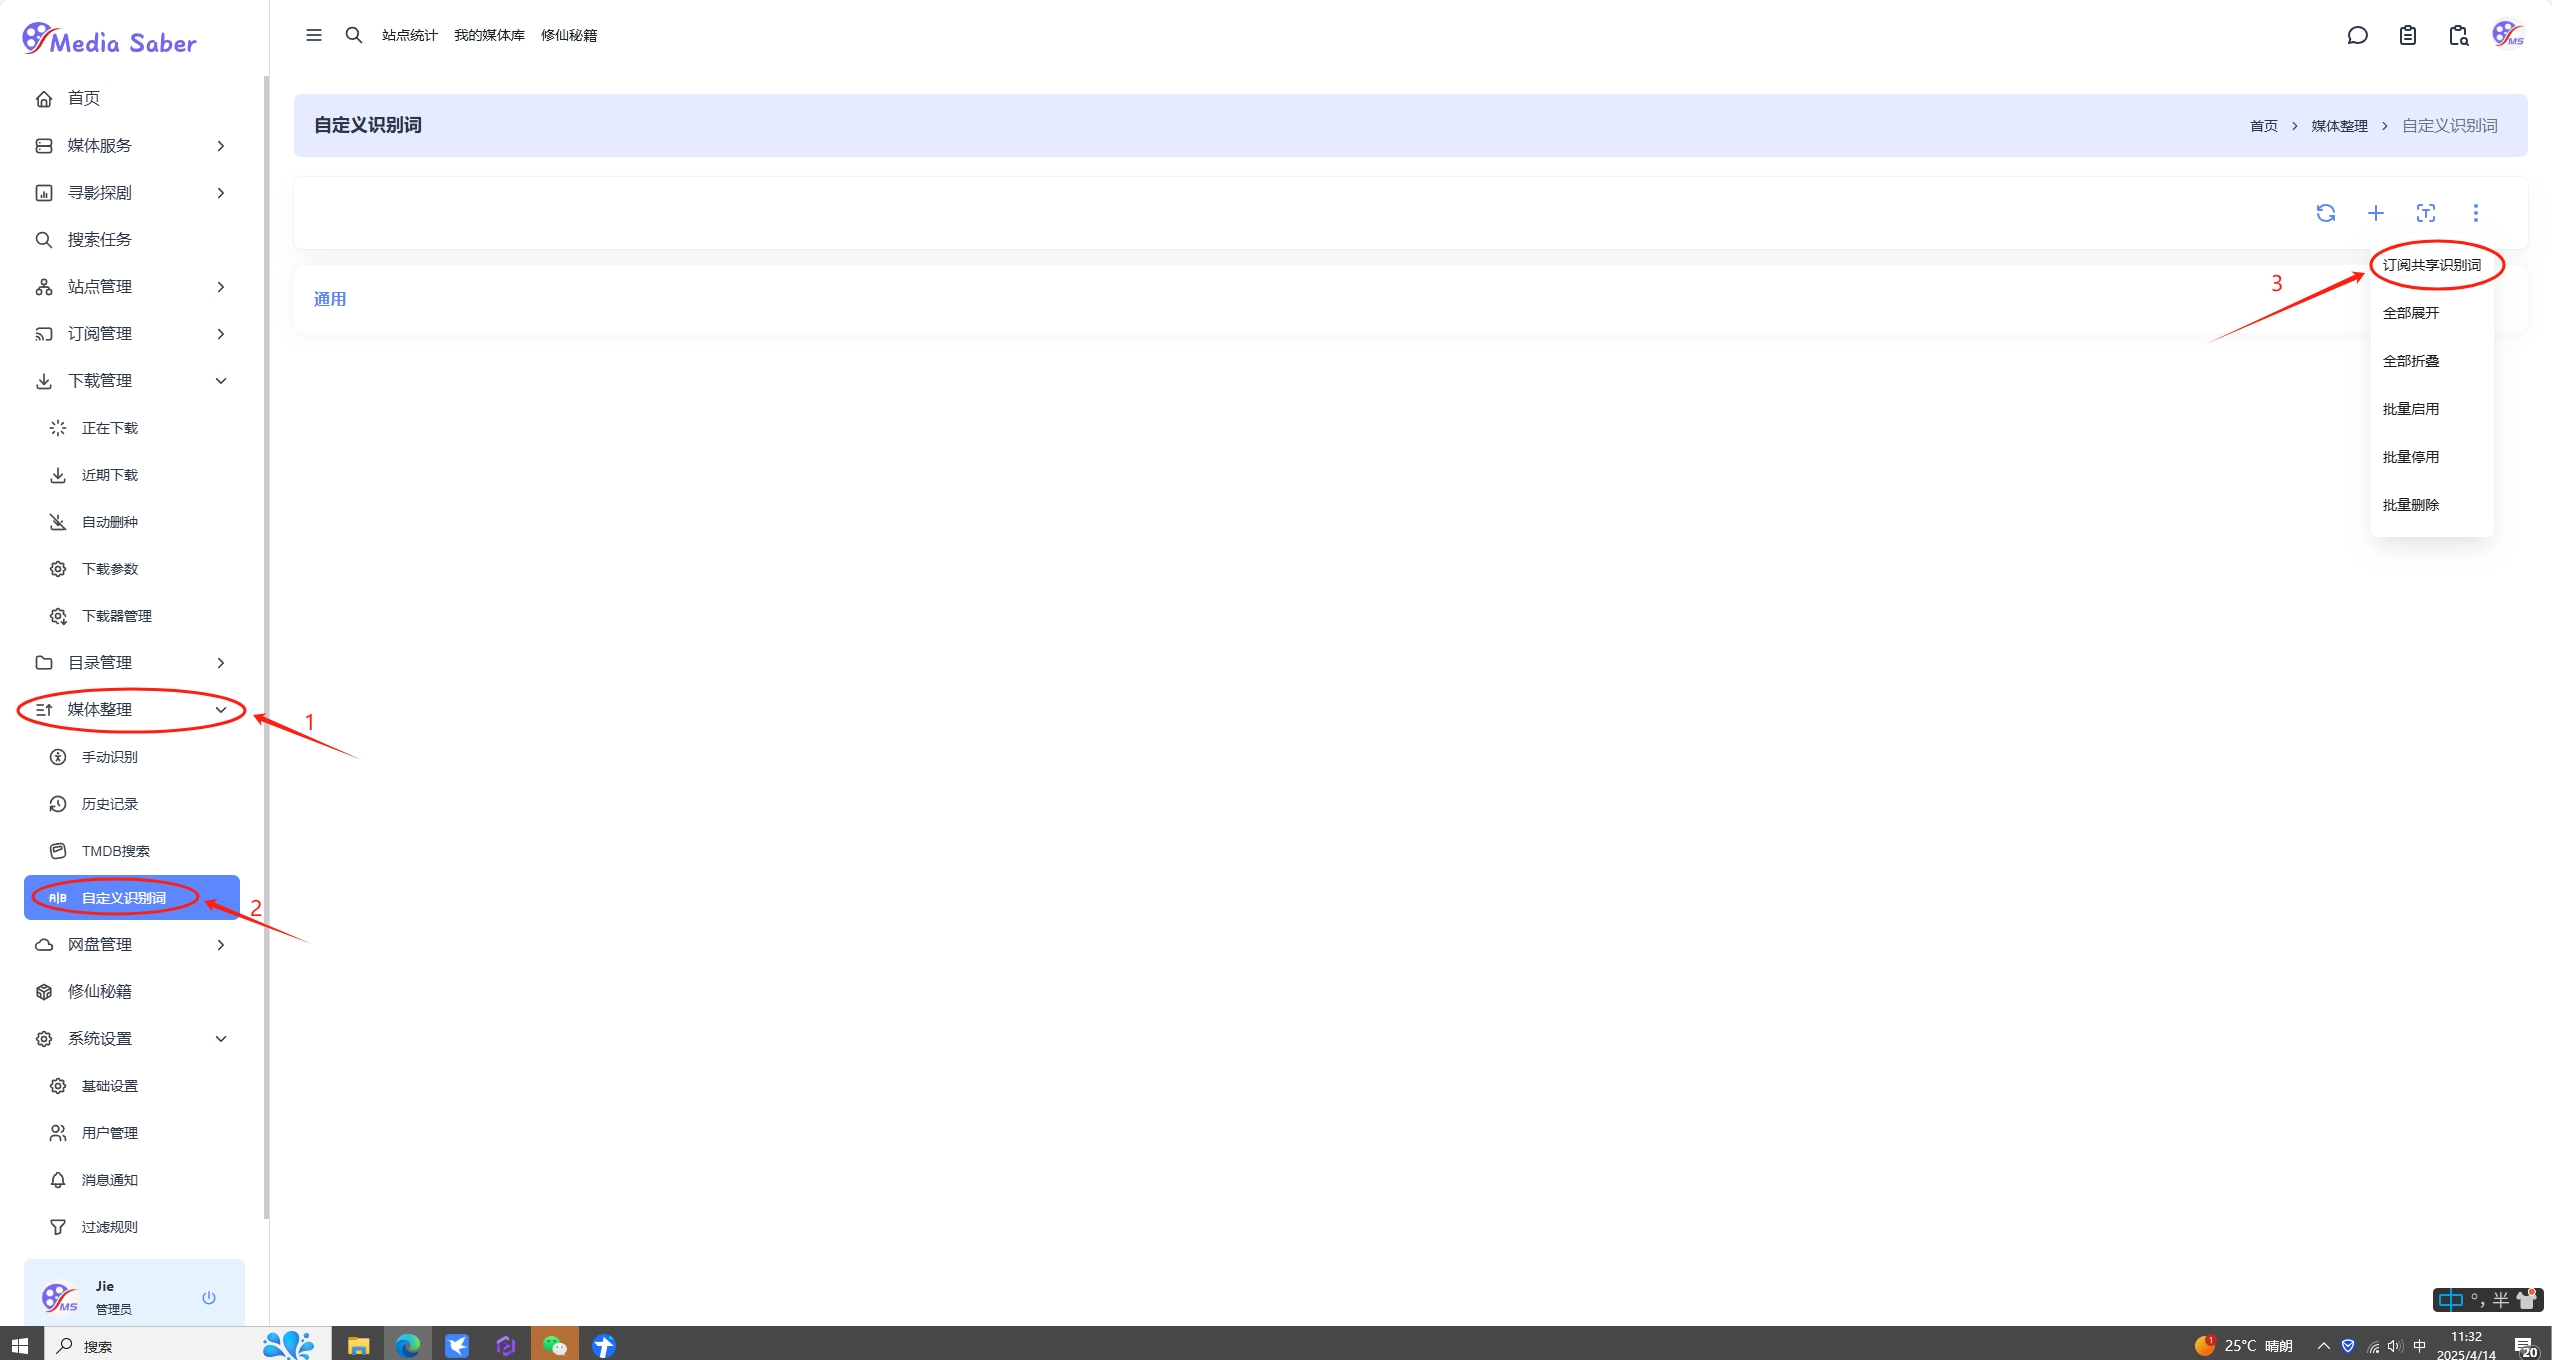
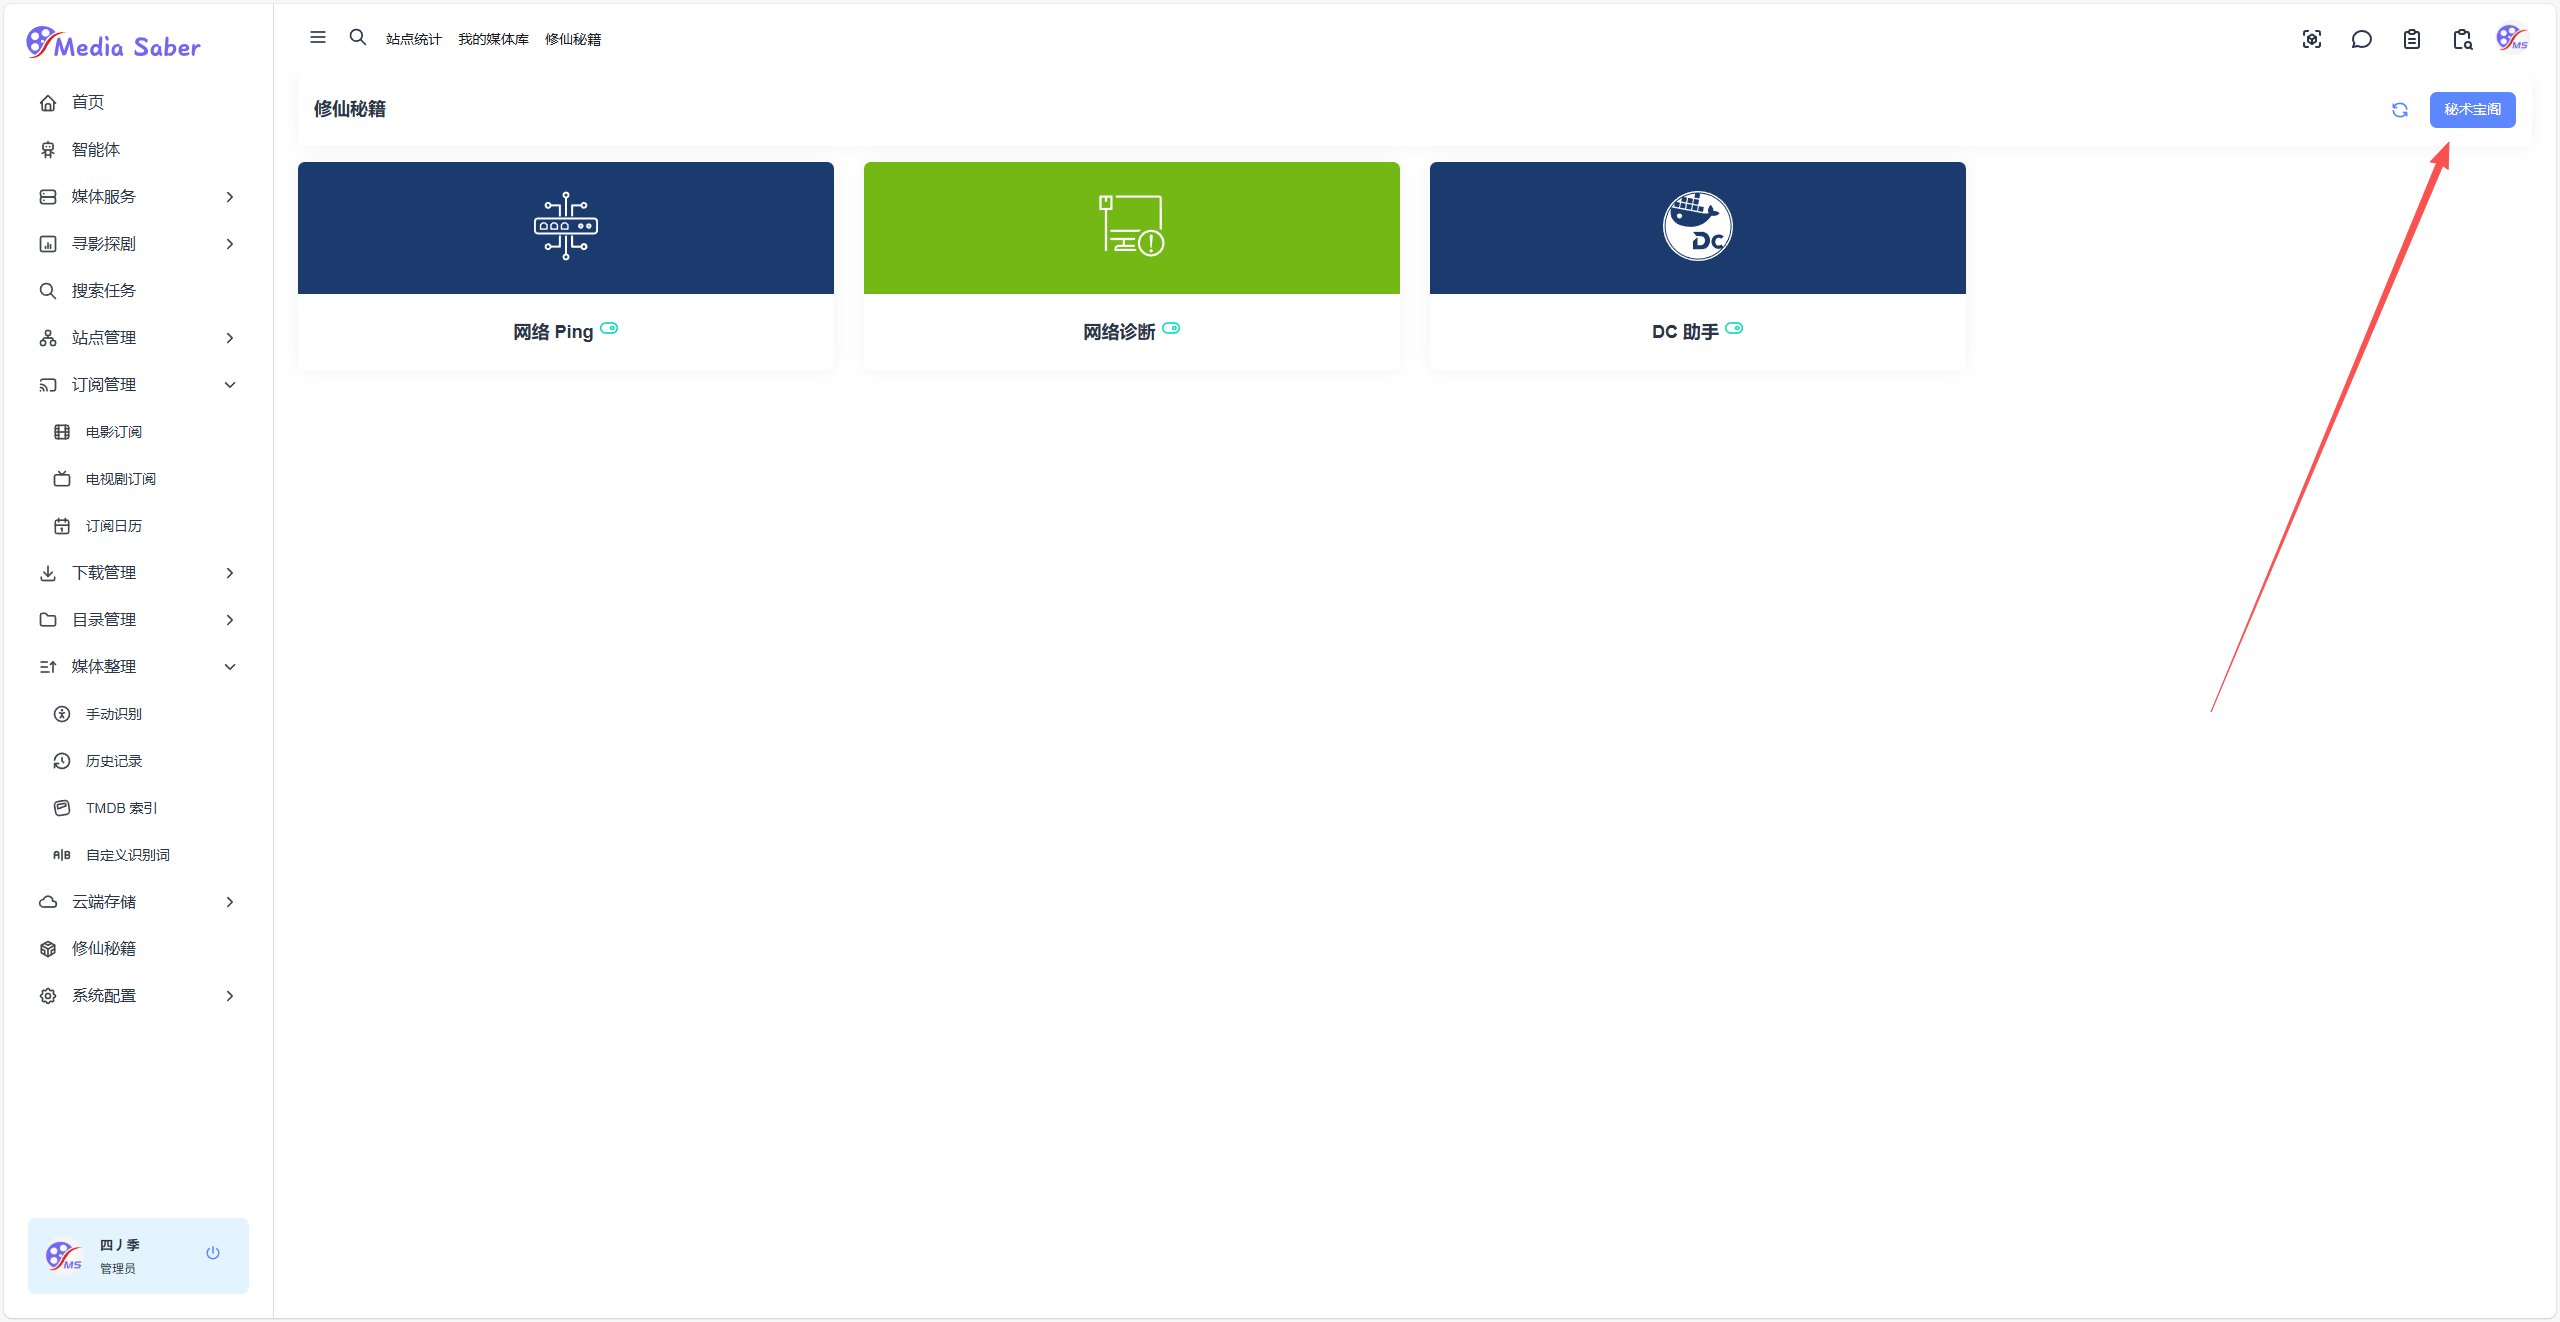
更新

diff --git a/docs/01.新手指引/04.初始化配置/05.媒体整理设置.md b/docs/01.新手指引/04.初始化配置/05.媒体整理设置.md
@@ -11,16 +11,40 @@ dateCreated: 2023-10-11T16:25:24.817Z
 permalink: /guide/init/medium
 ---
 
-### 自定义识别词
+### 一、自定义识别词订阅
 
-路径：**媒体整理 → 自定义识别词 → 右上角 "+"**  
-新增识别词组订阅
+路径：**修仙秘籍 → 右上角秘术宝阁 →  订阅 MP 共享识别词**  
 
 <div align="center"><img src="./images/mtzl/mt01.png" width="800"/></div>  
 <div align="center"><img src="./images/mtzl/mt02.png" width="800"/></div>  
 
-订阅链接如下（可根据需要添加多个）：
+点击添加即可
+
+<div align="center"><img src="./images/mtzl/mt03.png" width="800"/></div>
+
+:::warning
+添加完插件后，在秘术宝阁页面点击 “订阅 MP 共享识别词（插件）” 在弹出页面手动填入“更新周期corn” 和 “订阅链” 点击保存即可
+:::
+
+### 订阅链接如下（可根据需要添加多个）：
 ```shell
 https://raw.githubusercontent.com/Putarku/MoviePilot-Help/main/Words/TV.txt
 https://raw.githubusercontent.com/Putarku/MoviePilot-Help/main/Words/anime.txt
 ```
+### 二、手动添加识别词
+
+路径：**媒体整理 → 自定义识别词**
+
+<div align="center"><img src="./images/mtzl/mt04.png" width="800"/></div>
+
+点击右上角 + 号，输入想要创建的识别词组名称，例如：哈儿司令，点击保存
+
+<div align="center"><img src="./images/mtzl/mt05.png" width="800"/></div>
+
+点击词组上的 + 号，在弹出框中，选择你想要的替换方式，并在被替换词和替换词中输入你的内容，保存即可
+
+<div align="center"><img src="./images/mtzl/mt06.png" width="800"/></div>
+
+:::warning
+电视剧会涉及到多集和多季的问题，这里就要用到正则表达式了，这里就不过多赘述了，需要的自然会去研究，但是有一点就是，记得勾选“正则表达式” 选项
+:::
